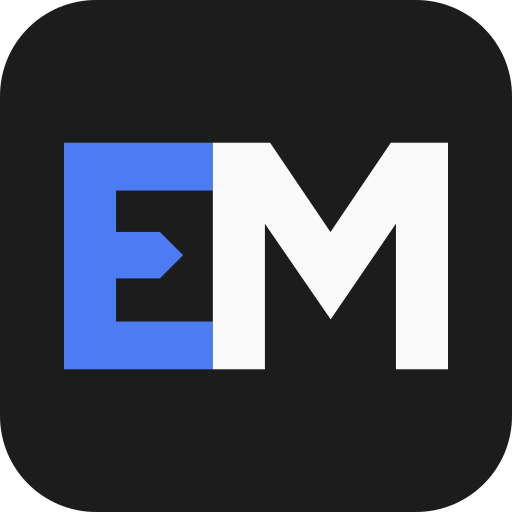
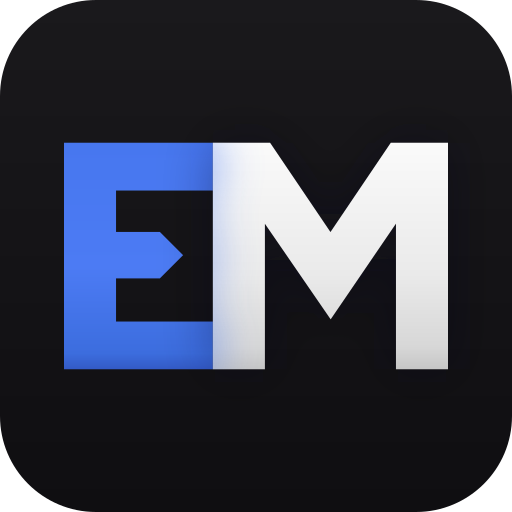
Updates

Changed region(s): [[0.125, 0.2812, 0.5312, 0.7188], [0.75, 0.5938, 0.875, 0.7188], [0.625, 0.5938, 0.6562, 0.625]]

diff --git a/sw.js b/sw.js
@@ -1,1 +1,1 @@
-if(!self.define){let s,l={};const e=(e,i)=>(e=new URL(e+".js",i).href,l[e]||new Promise(l=>{if("document"in self){const s=document.createElement("script");s.src=e,s.onload=l,document.head.appendChild(s)}else s=e,importScripts(e),l()}).then(()=>{let s=l[e];if(!s)throw new Error(`Module ${e} didn’t register its module`);return s}));self.define=(i,n)=>{const r=s||("document"in self?document.currentScript.src:"")||location.href;if(l[r])return;let u={};const t=s=>e(s,r),a={module:{uri:r},exports:u,require:t};l[r]=Promise.all(i.map(s=>a[s]||t(s))).then(s=>(n(...s),u))}}define(["./workbox-2ff6bd68"],function(s){"use strict";self.addEventListener("message",s=>{s.data&&"SKIP_WAITING"===s.data.type&&self.skipWaiting()}),s.precacheAndRoute([{url:"manifest.webmanifest",revision:"a47f72fba01dd328d6d47c9f369966d9"},{url:"index.html",revision:"9c54c9adbf964e34f6e08d7e471dd5aa"},{url:"icon.svg",revision:"87e09b287cb3645e2ab9c27c9d597093"},{url:"icon-maskable-512.png",revision:"28d17f39006de1623ffa386d21e55cb5"},{url:"icon-512.png",revision:"6ddbee927989d8fb7dff6b13e34d2022"},{url:"icon-192.png",revision:"f46e1a91feb00cfedbf7f47caa47737f"},{url:"banner.svg",revision:"925dfda38dc54ed554b0e3e77ca3eaf0"},{url:"apple-touch-icon.png",revision:"5af21a712b7fff1508bdae13793b6cda"},{url:"assets/z80-Co3PbHdE.js",revision:null},{url:"assets/yacas-CXXgtw0p.js",revision:null},{url:"assets/xquery-BKJx4mf9.js",revision:null},{url:"assets/workbox-window.prod.es5-Bd17z0YL.js",revision:null},{url:"assets/webidl-D5jiJvOU.js",revision:null},{url:"assets/virtual_solid-ssr-entry-client-CUeeN1Bj.js",revision:null},{url:"assets/virtual_solid-ssr-entry-client-B6QnHi1G.css",revision:null},{url:"assets/vhdl-kS471soi.js",revision:null},{url:"assets/verilog-CjI9Y6RI.js",revision:null},{url:"assets/velocity-CqftRsjg.js",revision:null},{url:"assets/vbscript-D9f6rSsU.js",revision:null},{url:"assets/vb-BthdM_4N.js",revision:null},{url:"assets/turtle-Cx3rYX2g.js",revision:null},{url:"assets/ttcn-cfg-2b4Gb5sE.js",revision:null},{url:"assets/ttcn-PPSTk1ow.js",revision:null},{url:"assets/troff-C2dAgh7P.js",revision:null},{url:"assets/toml-BPTmHmyx.js",revision:null},{url:"assets/tiki-AK6FwT8q.js",revision:null},{url:"assets/tiddlywiki-VlUiK86J.js",revision:null},{url:"assets/textile-C4jVoHG1.js",revision:null},{url:"assets/tcl-BGfruO1u.js",revision:null},{url:"assets/swift-DKB6_1j6.js",revision:null},{url:"assets/stylus-BOVgKnng.js",revision:null},{url:"assets/stex-DNzd62Q_.js",revision:null},{url:"assets/sql-DuQMFDvy.js",revision:null},{url:"assets/spreadsheet-CTIncYxj.js",revision:null},{url:"assets/sparql-Dz-mlCAC.js",revision:null},{url:"assets/solr-B78wSQJQ.js",revision:null},{url:"assets/smalltalk-BLp5-jwC.js",revision:null},{url:"assets/simple-mode-DXiLM1-G.js",revision:null},{url:"assets/sieve-tLWDfEkZ.js",revision:null},{url:"assets/shell-DwuoZtxw.js",revision:null},{url:"assets/scheme-D9qYN0V5.js",revision:null},{url:"assets/sas-C2OyD2Y6.js",revision:null},{url:"assets/ruby-ChfNwlCY.js",revision:null},{url:"assets/rpm-gpDK5sbt.js",revision:null},{url:"assets/r-CxDmU1I4.js",revision:null},{url:"assets/q-B9NhS7L_.js",revision:null},{url:"assets/python-B_1Jd8HM.js",revision:null},{url:"assets/puppet-BZyAS7I4.js",revision:null},{url:"assets/pug-3K-JMW4g.js",revision:null},{url:"assets/protobuf-D1ij_kNL.js",revision:null},{url:"assets/properties-C357ku5U.js",revision:null},{url:"assets/powershell-BcIto6Sf.js",revision:null},{url:"assets/pig-AF4Hwhju.js",revision:null},{url:"assets/perl-BkSkiI9m.js",revision:null},{url:"assets/pascal-Dp_KdFgX.js",revision:null},{url:"assets/oz-BwTct_5T.js",revision:null},{url:"assets/octave-D2Q8cUp1.js",revision:null},{url:"assets/ntriples-B9h1VB_g.js",revision:null},{url:"assets/nsis-viPvXFiq.js",revision:null},{url:"assets/nginx-8H7HVH4w.js",revision:null},{url:"assets/mumps-BSzj6Xyz.js",revision:null},{url:"assets/mscgen-qgSLujhx.js",revision:null},{url:"assets/modelica-CqHI_q-D.js",revision:null},{url:"assets/mllike-B45xgp2S.js",revision:null},{url:"assets/mirc-C9zpzAZU.js",revision:null},{url:"assets/mbox-BEMVcqjs.js",revision:null},{url:"assets/mathematica-u8YMmbU0.js",revision:null},{url:"assets/lua-DPCEkfD_.js",revision:null},{url:"assets/livescript-BXxG0Yva.js",revision:null},{url:"assets/julia-CQfgDRfP.js",revision:null},{url:"assets/jetbrains-mono-latin-wght-normal-B9CIFXIH.woff2",revision:null},{url:"assets/jetbrains-mono-latin-wght-italic-B2M6KQje.woff2",revision:null},{url:"assets/jetbrains-mono-latin-ext-wght-normal-DBQx-q_a.woff2",revision:null},{url:"assets/jetbrains-mono-latin-ext-wght-italic-BrDczivE.woff2",revision:null},{url:"assets/javascript-Bu8mWwtz.js",revision:null},{url:"assets/instrument-sans-latin-wdth-normal-BVScPF0l.woff2",revision:null},{url:"assets/instrument-sans-latin-wdth-italic-Dc9nmmPR.woff2",revision:null},{url:"assets/instrument-sans-latin-ext-wdth-normal-C5E2Gvlv.woff2",revision:null},{url:"assets/instrument-sans-latin-ext-wdth-italic-Bgl-Q8lL.woff2",revision:null},{url:"assets/idl-BUZw3wgd.js",revision:null},{url:"assets/http-CLVgA2GD.js",revision:null},{url:"assets/haxe-DjVOVvNP.js",revision:null},{url:"assets/haskell-BRsoo5mP.js",revision:null},{url:"assets/harfbuzz-subset-7xAt1Ssf.wasm",revision:null},{url:"assets/groovy-CUpZ7dEl.js",revision:null},{url:"assets/gherkin-oBAE_ms0.js",revision:null},{url:"assets/gas-BHEdbvp9.js",revision:null},{url:"assets/fortran-Bt6PBEDR.js",revision:null},{url:"assets/forth-D6RzAl64.js",revision:null},{url:"assets/font-subset-diKj9z0O.js",revision:null},{url:"assets/figtree-latin-wght-normal-D_ZTVpCC.woff2",revision:null},{url:"assets/figtree-latin-wght-italic-BEAWuiTz.woff2",revision:null},{url:"assets/figtree-latin-ext-wght-normal-DCwSJGxG.woff2",revision:null},{url:"assets/figtree-latin-ext-wght-italic-Q0qr0lrZ.woff2",revision:null},{url:"assets/fcl-ClOhbFR7.js",revision:null},{url:"assets/factor-LKH5gN8L.js",revision:null},{url:"assets/erlang-BV0c4Hdn.js",revision:null},{url:"assets/elm-Cshzl8qu.js",revision:null},{url:"assets/eiffel-BEjRio4Q.js",revision:null},{url:"assets/ecl-BVIeWmwY.js",revision:null},{url:"assets/ebnf-D4c0_ac3.js",revision:null},{url:"assets/dylan-BCDoL_-p.js",revision:null},{url:"assets/dtd-DTF72YNO.js",revision:null},{url:"assets/dockerfile-DJkHQgkl.js",revision:null},{url:"assets/dist-ZPdj95JP.js",revision:null},{url:"assets/dist-ZI6xblm0.js",revision:null},{url:"assets/dist-LBug-eAz.js",revision:null},{url:"assets/dist-DzGbq54L.js",revision:null},{url:"assets/dist-DXtnPha1.js",revision:null},{url:"assets/dist-DRiSZTbN.js",revision:null},{url:"assets/dist-CzwECSxF.js",revision:null},{url:"assets/dist-CnMdD1eH.js",revision:null},{url:"assets/dist-Cjj38b9n.js",revision:null},{url:"assets/dist-C_Dmtegh.js",revision:null},{url:"assets/dist-CR4lXVnG.js",revision:null},{url:"assets/dist-C7F0Hlmq.js",revision:null},{url:"assets/dist-BwOyilns.js",revision:null},{url:"assets/dist-BSJOcAtr.js",revision:null},{url:"assets/dist-BI58-Qvh.js",revision:null},{url:"assets/dist-BCmxkM7y.js",revision:null},{url:"assets/dist-B2CGho5I.js",revision:null},{url:"assets/diff-ChtP43wD.js",revision:null},{url:"assets/d-DWkQyNnU.js",revision:null},{url:"assets/cypher-p9eYesGn.js",revision:null},{url:"assets/css-CnaYoQib.js",revision:null},{url:"assets/crystal-Bsdphhtm.js",revision:null},{url:"assets/commonlisp-DgAKBe0r.js",revision:null},{url:"assets/coffeescript-De_zI4J0.js",revision:null},{url:"assets/cobol-DHLQUbN7.js",revision:null},{url:"assets/cmake-84nbDH0I.js",revision:null},{url:"assets/clojure-BflJGmDX.js",revision:null},{url:"assets/clike-D_6L3tnO.js",revision:null},{url:"assets/brainfuck-D5EjA2JK.js",revision:null},{url:"assets/asterisk-BEn0Cwpx.js",revision:null},{url:"assets/asn1-DCl_8MCW.js",revision:null},{url:"assets/asciiarmor-C_eisQCp.js",revision:null},{url:"assets/apl-gfMMiTNf.js",revision:null},{url:"assets/KaTeX_Typewriter-Regular-CO6r4hn1.woff2",revision:null},{url:"assets/KaTeX_Size4-Regular-Dl5lxZxV.woff2",revision:null},{url:"assets/KaTeX_Size3-Regular-gV2CO0n9.woff2",revision:null},{url:"assets/KaTeX_Size2-Regular-Dy4dx90m.woff2",revision:null},{url:"assets/KaTeX_Size1-Regular-mCD8mA8B.woff2",revision:null},{url:"assets/KaTeX_Script-Regular-D3wIWfF6.woff2",revision:null},{url:"assets/KaTeX_SansSerif-Regular-DDBCnlJ7.woff2",revision:null},{url:"assets/KaTeX_SansSerif-Italic-C3H0VqGB.woff2",revision:null},{url:"assets/KaTeX_SansSerif-Bold-D1sUS0GD.woff2",revision:null},{url:"assets/KaTeX_Math-Italic-t53AETM-.woff2",revision:null},{url:"assets/KaTeX_Math-BoldItalic-CZnvNsCZ.woff2",revision:null},{url:"assets/KaTeX_Main-Regular-B22Nviop.woff2",revision:null},{url:"assets/KaTeX_Main-Italic-NWA7e6Wa.woff2",revision:null},{url:"assets/KaTeX_Main-BoldItalic-DxDJ3AOS.woff2",revision:null},{url:"assets/KaTeX_Main-Bold-Cx986IdX.woff2",revision:null},{url:"assets/KaTeX_Fraktur-Regular-CTYiF6lA.woff2",revision:null},{url:"assets/KaTeX_Fraktur-Bold-CL6g_b3V.woff2",revision:null},{url:"assets/KaTeX_Caligraphic-Regular-Di6jR-x-.woff2",revision:null},{url:"assets/KaTeX_Caligraphic-Bold-Dq_IR9rO.woff2",revision:null},{url:"assets/KaTeX_AMS-Regular-BQhdFMY1.woff2",revision:null},{url:"icon-192.png",revision:"f46e1a91feb00cfedbf7f47caa47737f"},{url:"icon-512.png",revision:"6ddbee927989d8fb7dff6b13e34d2022"},{url:"icon-maskable-512.png",revision:"28d17f39006de1623ffa386d21e55cb5"},{url:"icon.svg",revision:"87e09b287cb3645e2ab9c27c9d597093"},{url:"manifest.webmanifest",revision:"a47f72fba01dd328d6d47c9f369966d9"}],{}),s.cleanupOutdatedCaches(),s.registerRoute(new s.NavigationRoute(s.createHandlerBoundToURL("/easy-marko/index.html"))),s.registerRoute(({url:s})=>s.pathname.endsWith(".woff2"),new s.CacheFirst({cacheName:"fonts",plugins:[new s.ExpirationPlugin({maxEntries:100})]}),"GET")});
+if(!self.define){let s,l={};const e=(e,i)=>(e=new URL(e+".js",i).href,l[e]||new Promise(l=>{if("document"in self){const s=document.createElement("script");s.src=e,s.onload=l,document.head.appendChild(s)}else s=e,importScripts(e),l()}).then(()=>{let s=l[e];if(!s)throw new Error(`Module ${e} didn’t register its module`);return s}));self.define=(i,n)=>{const r=s||("document"in self?document.currentScript.src:"")||location.href;if(l[r])return;let u={};const t=s=>e(s,r),a={module:{uri:r},exports:u,require:t};l[r]=Promise.all(i.map(s=>a[s]||t(s))).then(s=>(n(...s),u))}}define(["./workbox-2ff6bd68"],function(s){"use strict";self.addEventListener("message",s=>{s.data&&"SKIP_WAITING"===s.data.type&&self.skipWaiting()}),s.precacheAndRoute([{url:"manifest.webmanifest",revision:"a47f72fba01dd328d6d47c9f369966d9"},{url:"index.html",revision:"9c54c9adbf964e34f6e08d7e471dd5aa"},{url:"icon.svg",revision:"29081559123cc24f44451e7d030e290a"},{url:"icon-maskable-512.png",revision:"639613b456b799358643cdddb5bcbdcb"},{url:"icon-512.png",revision:"58c894ce63bbe308b1b0e15b80f2457d"},{url:"icon-192.png",revision:"5d33d83c3ad453e8540411f0c4deb279"},{url:"banner.svg",revision:"925dfda38dc54ed554b0e3e77ca3eaf0"},{url:"apple-touch-icon.png",revision:"3115528ea0a25bfd2fc3ea8afe523993"},{url:"assets/z80-Co3PbHdE.js",revision:null},{url:"assets/yacas-CXXgtw0p.js",revision:null},{url:"assets/xquery-BKJx4mf9.js",revision:null},{url:"assets/workbox-window.prod.es5-Bd17z0YL.js",revision:null},{url:"assets/webidl-D5jiJvOU.js",revision:null},{url:"assets/virtual_solid-ssr-entry-client-CUeeN1Bj.js",revision:null},{url:"assets/virtual_solid-ssr-entry-client-B6QnHi1G.css",revision:null},{url:"assets/vhdl-kS471soi.js",revision:null},{url:"assets/verilog-CjI9Y6RI.js",revision:null},{url:"assets/velocity-CqftRsjg.js",revision:null},{url:"assets/vbscript-D9f6rSsU.js",revision:null},{url:"assets/vb-BthdM_4N.js",revision:null},{url:"assets/turtle-Cx3rYX2g.js",revision:null},{url:"assets/ttcn-cfg-2b4Gb5sE.js",revision:null},{url:"assets/ttcn-PPSTk1ow.js",revision:null},{url:"assets/troff-C2dAgh7P.js",revision:null},{url:"assets/toml-BPTmHmyx.js",revision:null},{url:"assets/tiki-AK6FwT8q.js",revision:null},{url:"assets/tiddlywiki-VlUiK86J.js",revision:null},{url:"assets/textile-C4jVoHG1.js",revision:null},{url:"assets/tcl-BGfruO1u.js",revision:null},{url:"assets/swift-DKB6_1j6.js",revision:null},{url:"assets/stylus-BOVgKnng.js",revision:null},{url:"assets/stex-DNzd62Q_.js",revision:null},{url:"assets/sql-DuQMFDvy.js",revision:null},{url:"assets/spreadsheet-CTIncYxj.js",revision:null},{url:"assets/sparql-Dz-mlCAC.js",revision:null},{url:"assets/solr-B78wSQJQ.js",revision:null},{url:"assets/smalltalk-BLp5-jwC.js",revision:null},{url:"assets/simple-mode-DXiLM1-G.js",revision:null},{url:"assets/sieve-tLWDfEkZ.js",revision:null},{url:"assets/shell-DwuoZtxw.js",revision:null},{url:"assets/scheme-D9qYN0V5.js",revision:null},{url:"assets/sas-C2OyD2Y6.js",revision:null},{url:"assets/ruby-ChfNwlCY.js",revision:null},{url:"assets/rpm-gpDK5sbt.js",revision:null},{url:"assets/r-CxDmU1I4.js",revision:null},{url:"assets/q-B9NhS7L_.js",revision:null},{url:"assets/python-B_1Jd8HM.js",revision:null},{url:"assets/puppet-BZyAS7I4.js",revision:null},{url:"assets/pug-3K-JMW4g.js",revision:null},{url:"assets/protobuf-D1ij_kNL.js",revision:null},{url:"assets/properties-C357ku5U.js",revision:null},{url:"assets/powershell-BcIto6Sf.js",revision:null},{url:"assets/pig-AF4Hwhju.js",revision:null},{url:"assets/perl-BkSkiI9m.js",revision:null},{url:"assets/pascal-Dp_KdFgX.js",revision:null},{url:"assets/oz-BwTct_5T.js",revision:null},{url:"assets/octave-D2Q8cUp1.js",revision:null},{url:"assets/ntriples-B9h1VB_g.js",revision:null},{url:"assets/nsis-viPvXFiq.js",revision:null},{url:"assets/nginx-8H7HVH4w.js",revision:null},{url:"assets/mumps-BSzj6Xyz.js",revision:null},{url:"assets/mscgen-qgSLujhx.js",revision:null},{url:"assets/modelica-CqHI_q-D.js",revision:null},{url:"assets/mllike-B45xgp2S.js",revision:null},{url:"assets/mirc-C9zpzAZU.js",revision:null},{url:"assets/mbox-BEMVcqjs.js",revision:null},{url:"assets/mathematica-u8YMmbU0.js",revision:null},{url:"assets/lua-DPCEkfD_.js",revision:null},{url:"assets/livescript-BXxG0Yva.js",revision:null},{url:"assets/julia-CQfgDRfP.js",revision:null},{url:"assets/jetbrains-mono-latin-wght-normal-B9CIFXIH.woff2",revision:null},{url:"assets/jetbrains-mono-latin-wght-italic-B2M6KQje.woff2",revision:null},{url:"assets/jetbrains-mono-latin-ext-wght-normal-DBQx-q_a.woff2",revision:null},{url:"assets/jetbrains-mono-latin-ext-wght-italic-BrDczivE.woff2",revision:null},{url:"assets/javascript-Bu8mWwtz.js",revision:null},{url:"assets/instrument-sans-latin-wdth-normal-BVScPF0l.woff2",revision:null},{url:"assets/instrument-sans-latin-wdth-italic-Dc9nmmPR.woff2",revision:null},{url:"assets/instrument-sans-latin-ext-wdth-normal-C5E2Gvlv.woff2",revision:null},{url:"assets/instrument-sans-latin-ext-wdth-italic-Bgl-Q8lL.woff2",revision:null},{url:"assets/idl-BUZw3wgd.js",revision:null},{url:"assets/http-CLVgA2GD.js",revision:null},{url:"assets/haxe-DjVOVvNP.js",revision:null},{url:"assets/haskell-BRsoo5mP.js",revision:null},{url:"assets/harfbuzz-subset-7xAt1Ssf.wasm",revision:null},{url:"assets/groovy-CUpZ7dEl.js",revision:null},{url:"assets/gherkin-oBAE_ms0.js",revision:null},{url:"assets/gas-BHEdbvp9.js",revision:null},{url:"assets/fortran-Bt6PBEDR.js",revision:null},{url:"assets/forth-D6RzAl64.js",revision:null},{url:"assets/font-subset-diKj9z0O.js",revision:null},{url:"assets/figtree-latin-wght-normal-D_ZTVpCC.woff2",revision:null},{url:"assets/figtree-latin-wght-italic-BEAWuiTz.woff2",revision:null},{url:"assets/figtree-latin-ext-wght-normal-DCwSJGxG.woff2",revision:null},{url:"assets/figtree-latin-ext-wght-italic-Q0qr0lrZ.woff2",revision:null},{url:"assets/fcl-ClOhbFR7.js",revision:null},{url:"assets/factor-LKH5gN8L.js",revision:null},{url:"assets/erlang-BV0c4Hdn.js",revision:null},{url:"assets/elm-Cshzl8qu.js",revision:null},{url:"assets/eiffel-BEjRio4Q.js",revision:null},{url:"assets/ecl-BVIeWmwY.js",revision:null},{url:"assets/ebnf-D4c0_ac3.js",revision:null},{url:"assets/dylan-BCDoL_-p.js",revision:null},{url:"assets/dtd-DTF72YNO.js",revision:null},{url:"assets/dockerfile-DJkHQgkl.js",revision:null},{url:"assets/dist-ZPdj95JP.js",revision:null},{url:"assets/dist-ZI6xblm0.js",revision:null},{url:"assets/dist-LBug-eAz.js",revision:null},{url:"assets/dist-DzGbq54L.js",revision:null},{url:"assets/dist-DXtnPha1.js",revision:null},{url:"assets/dist-DRiSZTbN.js",revision:null},{url:"assets/dist-CzwECSxF.js",revision:null},{url:"assets/dist-CnMdD1eH.js",revision:null},{url:"assets/dist-Cjj38b9n.js",revision:null},{url:"assets/dist-C_Dmtegh.js",revision:null},{url:"assets/dist-CR4lXVnG.js",revision:null},{url:"assets/dist-C7F0Hlmq.js",revision:null},{url:"assets/dist-BwOyilns.js",revision:null},{url:"assets/dist-BSJOcAtr.js",revision:null},{url:"assets/dist-BI58-Qvh.js",revision:null},{url:"assets/dist-BCmxkM7y.js",revision:null},{url:"assets/dist-B2CGho5I.js",revision:null},{url:"assets/diff-ChtP43wD.js",revision:null},{url:"assets/d-DWkQyNnU.js",revision:null},{url:"assets/cypher-p9eYesGn.js",revision:null},{url:"assets/css-CnaYoQib.js",revision:null},{url:"assets/crystal-Bsdphhtm.js",revision:null},{url:"assets/commonlisp-DgAKBe0r.js",revision:null},{url:"assets/coffeescript-De_zI4J0.js",revision:null},{url:"assets/cobol-DHLQUbN7.js",revision:null},{url:"assets/cmake-84nbDH0I.js",revision:null},{url:"assets/clojure-BflJGmDX.js",revision:null},{url:"assets/clike-D_6L3tnO.js",revision:null},{url:"assets/brainfuck-D5EjA2JK.js",revision:null},{url:"assets/asterisk-BEn0Cwpx.js",revision:null},{url:"assets/asn1-DCl_8MCW.js",revision:null},{url:"assets/asciiarmor-C_eisQCp.js",revision:null},{url:"assets/apl-gfMMiTNf.js",revision:null},{url:"assets/KaTeX_Typewriter-Regular-CO6r4hn1.woff2",revision:null},{url:"assets/KaTeX_Size4-Regular-Dl5lxZxV.woff2",revision:null},{url:"assets/KaTeX_Size3-Regular-gV2CO0n9.woff2",revision:null},{url:"assets/KaTeX_Size2-Regular-Dy4dx90m.woff2",revision:null},{url:"assets/KaTeX_Size1-Regular-mCD8mA8B.woff2",revision:null},{url:"assets/KaTeX_Script-Regular-D3wIWfF6.woff2",revision:null},{url:"assets/KaTeX_SansSerif-Regular-DDBCnlJ7.woff2",revision:null},{url:"assets/KaTeX_SansSerif-Italic-C3H0VqGB.woff2",revision:null},{url:"assets/KaTeX_SansSerif-Bold-D1sUS0GD.woff2",revision:null},{url:"assets/KaTeX_Math-Italic-t53AETM-.woff2",revision:null},{url:"assets/KaTeX_Math-BoldItalic-CZnvNsCZ.woff2",revision:null},{url:"assets/KaTeX_Main-Regular-B22Nviop.woff2",revision:null},{url:"assets/KaTeX_Main-Italic-NWA7e6Wa.woff2",revision:null},{url:"assets/KaTeX_Main-BoldItalic-DxDJ3AOS.woff2",revision:null},{url:"assets/KaTeX_Main-Bold-Cx986IdX.woff2",revision:null},{url:"assets/KaTeX_Fraktur-Regular-CTYiF6lA.woff2",revision:null},{url:"assets/KaTeX_Fraktur-Bold-CL6g_b3V.woff2",revision:null},{url:"assets/KaTeX_Caligraphic-Regular-Di6jR-x-.woff2",revision:null},{url:"assets/KaTeX_Caligraphic-Bold-Dq_IR9rO.woff2",revision:null},{url:"assets/KaTeX_AMS-Regular-BQhdFMY1.woff2",revision:null},{url:"icon-192.png",revision:"5d33d83c3ad453e8540411f0c4deb279"},{url:"icon-512.png",revision:"58c894ce63bbe308b1b0e15b80f2457d"},{url:"icon-maskable-512.png",revision:"639613b456b799358643cdddb5bcbdcb"},{url:"icon.svg",revision:"29081559123cc24f44451e7d030e290a"},{url:"manifest.webmanifest",revision:"a47f72fba01dd328d6d47c9f369966d9"}],{}),s.cleanupOutdatedCaches(),s.registerRoute(new s.NavigationRoute(s.createHandlerBoundToURL("/easy-marko/index.html"))),s.registerRoute(({url:s})=>s.pathname.endsWith(".woff2"),new s.CacheFirst({cacheName:"fonts",plugins:[new s.ExpirationPlugin({maxEntries:100})]}),"GET")});
